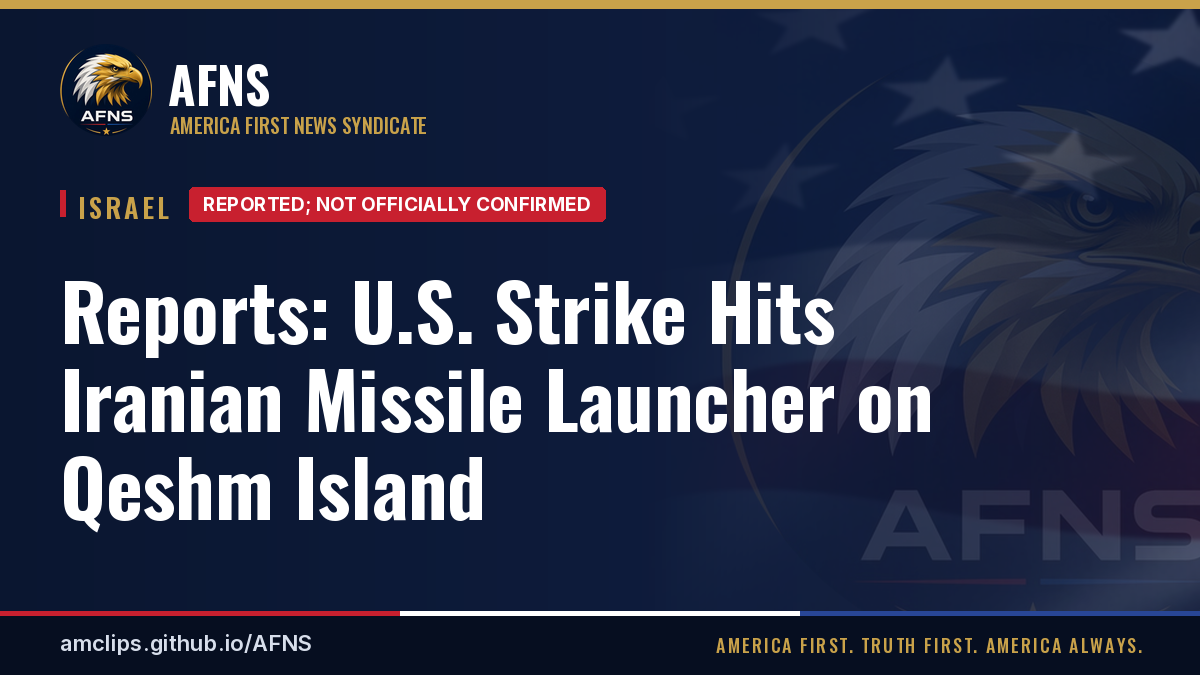
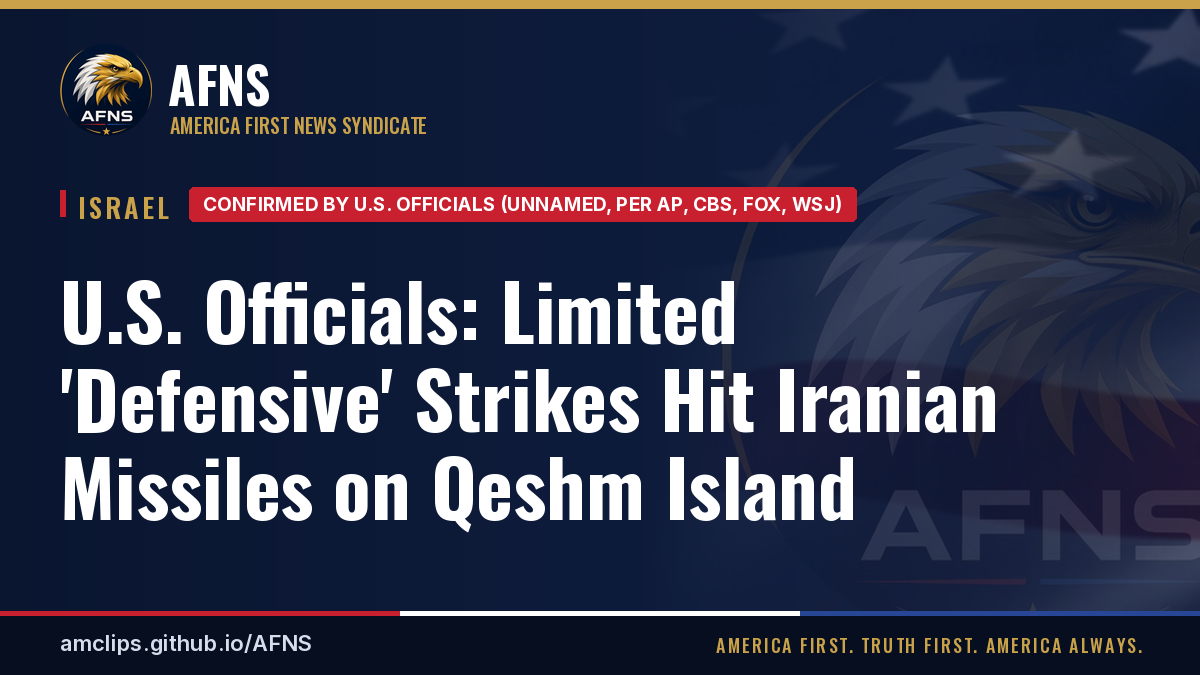
Add Nov 3 morning stories and Qeshm update (#24)

Changed region(s): [[0.0308, 0.4044, 0.8325, 0.7778], [0.1542, 0.28, 0.74, 0.3422]]

diff --git a/content/israel/report-us-strikes-iranian-missile-launcher-qeshm-island.md b/content/israel/report-us-strikes-iranian-missile-launcher-qeshm-island.md
@@ -1,8 +1,8 @@
 ---
-title: "Reports: U.S. Strike Hits Iranian Missile Launcher on Qeshm Island"
+title: "U.S. Officials: Limited 'Defensive' Strikes Hit Iranian Missiles on Qeshm Island"
 desk: israel
 date: 2026-11-02
-summary: "Iran's state news agency IRNA reported five explosions on Qeshm Island in the Strait of Hormuz on Monday afternoon. The Wall Street Journal, citing U.S. officials, says it was one of a series of limited, unannounced U.S. strikes on Iran in recent weeks. Axios, citing a single U.S. official, says a U.S. fighter destroyed an IRGC surface-to-air missile launcher in self-defense after the IRGC fired at a U.S. aircraft. No official CENTCOM or Pentagon statement is cited in the reports."
+summary: "Updated Nov. 3: U.S. officials told AP, CBS, Fox News and the Wall Street Journal that late Monday's strikes were limited and \"defensive,\" hitting Iranian surface-to-air missiles that fired at a U.S. aircraft. Iranian state media reported blasts on Qeshm, Hengam and around Bandar Abbas, and the IRGC claims it downed U.S. drones (UNVERIFIED). It is the first U.S. strike on Qeshm since June. Earlier: IRNA reported five explosions on Qeshm Monday afternoon, and Axios, citing a single U.S. official, said a U.S. fighter destroyed an IRGC missile launcher in self-defense."
 featured: true
 desk_lead: true
 image: "img/stories/report-us-strikes-iranian-missile-launcher-qeshm-island.jpg"
@@ -10,17 +10,26 @@ image_alt: "NASA Landsat 7 satellite view of Qeshm Island in the Strait of Hormu
 image_credit: "NASA Earth Observatory (Landsat 7) / Wikimedia Commons"
 image_source_url: "https://commons.wikimedia.org/wiki/File:QeshmIsland_NASA.jpg"
 image_license: "Public domain"
-status: "Reported; not officially confirmed"
+status: "Confirmed by U.S. officials (unnamed, per AP, CBS, Fox, WSJ)"
 key_points:
+  - UPDATE NOV. 3 - U.S. officials told AP, CBS, Fox News and the WSJ the strikes were limited and "defensive," hitting Iranian surface-to-air missiles that fired at a U.S. aircraft
+  - Iranian state media reported blasts on Qeshm, Hengam and around Bandar Abbas; the IRGC claims it downed two U.S. MQM-170 drones and an MQ-9 (UNVERIFIED)
+  - It is the first U.S. strike on Qeshm since June, and it came hours after Trump said "no" to resuming strikes
+  - Vance said he is optimistic about a deal; Reuters reports Iran's delegation left Doha without a breakthrough (as relayed by the Guardian and Al Jazeera)
   - Iran's state news agency IRNA reported five explosions on Qeshm Island around 2:50 PM CT Monday; residents said they saw aircraft overhead (Iranian state media)
   - The WSJ, citing U.S. officials, says the strike was one of a series of limited, unannounced U.S. strikes on Iran in recent weeks, some described as defensive
   - SINGLE SOURCE - Axios, citing one U.S. official, says a U.S. fighter destroyed an IRGC surface-to-air missile launcher on Qeshm in self-defense after the IRGC fired a missile at a U.S. aircraft over the Strait of Hormuz
   - Brent crude rose about 0.5% in early Asian trading after the reports
   - Trump told Fox News the U.S. "might have to go after" Pickaxe Mountain, a site tied to Iran's nuclear program, and warned fighting could resume without a deal
   - A China-Oman joint statement called for safe passage through the Strait of Hormuz and urged the U.S. and Iran to keep negotiating
-  - No official CENTCOM or Pentagon statement is cited in the reports
+  - Nov. 2 reports cited no official CENTCOM or Pentagon statement; on Nov. 3, unnamed U.S. officials confirmed the strikes to several outlets
   - Israel's official election results go to President Herzog on Nov. 4
 sources:
+  - AP: U.S. strikes Iranian targets in the Strait of Hormuz | https://apnews.com/article/iran-us-strikes-strait-hormuz-183b3d32d9bf5241f744abb917e6713e
+  - BBC: U.S. strikes on Qeshm | https://www.bbc.com/news/articles/cx240mrm3g8vo
+  - Fox News live: U.S. strikes Qeshm Island | https://www.foxnews.com/live-news/iran-war-news-us-strikes-qeshm-island-trump-midterms-11-03-26
+  - The Guardian: U.S. strikes Iran's Qeshm Island | https://www.theguardian.com/world/2026/nov/03/us-strikes-irans-qeshm-island
+  - Al Jazeera: U.S. hits Qeshm Island, Pezeshkian signals more diplomacy | https://www.aljazeera.com/news/2026/11/3/us-hits-qeshm-island-pezeshkian-signals-more-diplomacy-iran-war-latest
   - Faytuks on X: IRNA reports five explosions on Qeshm | https://x.com/Faytuks/status/2117361704271032424
   - Faytuks on X: residents report aircraft over Qeshm | https://x.com/Faytuks/status/2117359309067599961
   - Iran International on X: WSJ on limited, unannounced U.S. strikes | https://x.com/IranIntl_En/status/2117424532718022745
@@ -31,9 +40,23 @@ sources:
   - X trending: China-Oman joint statement on Hormuz | https://x.com/i/trending/2116913936968626268
 ---
 
-**Published Nov. 2, 2026, 11 PM CT.** Covers reports from about 3 PM to 11 PM CT Monday.
+**Published Nov. 2, 2026, 11 PM CT. Updated Nov. 3, 2026, morning CT.** The original report covers about 3 PM to 11 PM CT Monday.
 
-**Status: Reported; not officially confirmed.** The first report of explosions came from Iranian state media. The U.S. account comes from the Wall Street Journal, citing U.S. officials, and from Axios, citing a single U.S. official. No official CENTCOM or Pentagon statement is cited in the reports.
+**Status (updated Nov. 3): Confirmed by U.S. officials.** Unnamed U.S. officials told AP, CBS, Fox News and the Wall Street Journal that the strikes were limited and "defensive." Our sources do not cite an on-the-record CENTCOM or Pentagon statement. The Axios single-source detail below has not been independently confirmed.
+
+**Original status (Nov. 2): Reported; not officially confirmed.** The first report of explosions came from Iranian state media. The U.S. account comes from the Wall Street Journal, citing U.S. officials, and from Axios, citing a single U.S. official. No official CENTCOM or Pentagon statement is cited in the reports.
+
+## Update, Nov. 3 morning
+
+**U.S. officials: limited, "defensive" strikes.** U.S. officials told AP, CBS, Fox News and the Wall Street Journal that late Monday's strikes were limited and "defensive," hitting Iranian surface-to-air missiles that had fired at a U.S. aircraft ([AP](https://apnews.com/article/iran-us-strikes-strait-hormuz-183b3d32d9bf5241f744abb917e6713e), [Fox News](https://www.foxnews.com/live-news/iran-war-news-us-strikes-qeshm-island-trump-midterms-11-03-26)). It is the first U.S. strike on Qeshm since June, and it came hours after President Trump said "no" to resuming strikes ([BBC](https://www.bbc.com/news/articles/cx240mrm3g8vo)).
+
+**Iran's account.** Iranian state media reported blasts on Qeshm, Hengam and around Bandar Abbas. **UNVERIFIED:** the IRGC claims it shot down two U.S. MQM-170 drones and an MQ-9.
+
+**Diplomacy still alive, barely.** Vice President JD Vance said Monday he is optimistic about a deal, and Iranian President Masoud Pezeshkian is signaling more diplomacy ([Al Jazeera](https://www.aljazeera.com/news/2026/11/3/us-hits-qeshm-island-pezeshkian-signals-more-diplomacy-iran-war-latest)). Reuters reports Iran's delegation left Doha on Sunday without a breakthrough, though a draft is still circulating. The BBC says Iran floated reopening the Strait of Hormuz within two days if the U.S. meets seven conditions, including lifting the port blockade and unfreezing assets (both as relayed by [the Guardian](https://www.theguardian.com/world/2026/nov/03/us-strikes-irans-qeshm-island) and Al Jazeera).
+
+**Why it matters for Israel:** a return to full war with Iran would pull Israel straight back in.
+
+**The original Nov. 2 report follows, unchanged.**
 
 ## Explosions reported on Qeshm Island
 
@@ -61,9 +84,10 @@ During the Sultan of Oman's state visit to Beijing, a China-Oman joint statement
 
 ## What's next
 
-- No official CENTCOM or Pentagon statement on the Qeshm strike is cited in the reports.
-- Israel's official election results go to President Isaac Herzog on Nov. 4. There is no new vote count or coalition news.
+- Nov. 2 reports cited no official CENTCOM or Pentagon statement. On Nov. 3, unnamed U.S. officials confirmed the strikes to AP, CBS, Fox News and the WSJ.
+- Israel's official election results go to President Isaac Herzog on Nov. 4. For the latest on coalition talks, see [Anti-Netanyahu Bloc Holds First Joint Meeting](/israel/anti-netanyahu-bloc-first-joint-meeting-herzliya-results-fight/).
 
 ## Related
 
+- [World Briefing, Nov. 3](/geopolitics/world-briefing-2026-11-03/)
 - [Report: U.S. Tells Gulf States to Prepare for Iran Campaign After Midterms as Regional Powers Talk in Tehran](/israel/us-israel-signal-iran-campaign-after-midterms-tehran-talks/)

diff --git a/content/geopolitics/world-briefing-2026-11-03.md b/content/geopolitics/world-briefing-2026-11-03.md
@@ -1,0 +1,69 @@
+---
+title: "World Briefing: Tuesday, Nov. 3, 2026"
+desk: geopolitics
+date: 2026-11-03
+summary: "Qatar mediates between the U.S. and Iran as Axios reports Netanyahu is pressing Trump to resume strikes; the IMO still advises ships to avoid Hormuz; a Russian strike on an aid site in Zaporizhzhia region kills at least 18, with the toll still changing; Ukraine-Russia talks are set for Abu Dhabi Nov. 10-11 as the U.S. approves a Patriot sale; hackers send fake alerts in Ukraine and Russia; sabotage warnings and a political crisis in Europe."
+image: "img/stories/world-briefing-2026-11-03.jpg"
+image_alt: "The Dnipro Hydroelectric Station dam on the Dnieper River in Zaporizhzhia, Ukraine (file image, 2014)"
+image_credit: "Yuriy Kvach / Wikimedia Commons"
+image_source_url: "https://commons.wikimedia.org/wiki/File%3ADniproHES.jpg"
+image_license: "CC BY-SA 4.0"
+status: "Daily briefing"
+key_points:
+  - Iran - Qatari mediators spent more than 12 hours in talks in Tehran and a draft proposal is circulating; Axios reports Netanyahu wants strikes to resume right after the midterms (as relayed)
+  - Hormuz - the head of the IMO won't confirm mines have been cleared and still advises ships not to pass through (Xinhua)
+  - Ukraine - a Russian strike on an aid distribution site in Zaporizhzhia region killed at least 18; Ukraine reports 18 dead and 27 missing, some outlets cite 26 dead, and the toll is still changing
+  - Talks - U.S. envoy Steve Witkoff announced Ukraine-Russia working-level talks in Abu Dhabi on Nov. 10-11; the U.S. approved a $2.1 billion sale of 500 Patriot PAC-3 missiles to Ukraine
+  - Cyber - UNCONFIRMED ATTRIBUTION - hackers sent fake nuclear and air-raid alerts through emergency apps in both Ukraine and Russia
+  - Europe - suspected cyberattacks on supermarket fridges in seven countries; Poland sends counterterrorism police to the Kaliningrad border; Belgian PM Bart De Wever offers to resign
+sources:
+  - AP: Mideast latest, Nov. 2 | https://apnews.com/article/mideast-news-november-2-2026-8722c8b5a9deb228e7a188d4760ea8ed
+  - Nhan Dan: World news in brief, Nov. 3 | https://en.nhandan.vn/world-news-in-brief-november-3-post168623.html
+  - Just Security: Early Edition, Nov. 2 | https://www.justsecurity.org/162991/early-edition-november-2-2026/
+  - Anadolu: Morning briefing, Nov. 2 | https://www.aa.com.tr/en/world/morning-briefing-nov-2-2026/4108322
+  - Anadolu: Morning briefing, Nov. 3 | https://www.aa.com.tr/en/world/morning-briefing-nov-3-2026/4109288
+  - Xinhua: World news, Nov. 3 | https://english.news.cn/20261103/9e33353149e54a98ad0f3f5f26782736/c.html
+  - ISW: Russian offensive campaign assessment, Nov. 2 | https://understandingwar.org/research/russia-ukraine/russian-offensive-campaign-assessment-november-2-2026/
+  - 10 Things: Global news, Nov. 3 | https://www.10things.news/p/10-things-global-news-3rd-november-4b6
+---
+
+**Status: Daily briefing.** Each item names its source. Items marked UNCONFIRMED have not been independently confirmed. For the U.S. strikes on Qeshm Island, see our full story: [U.S. Officials: Limited 'Defensive' Strikes Hit Iranian Missiles on Qeshm Island](/israel/report-us-strikes-iranian-missile-launcher-qeshm-island/).
+
+## Iran: strikes and talks at the same time
+
+U.S. officials describe limited "defensive" strikes on Iranian targets around Hormuz, including on Qeshm Island, and the WSJ reports they are part of a series of quiet strikes in recent weeks. Iran's foreign minister calls the indirect talks "very intensive," and Vice President JD Vance says there has been "progress" ([AP](https://apnews.com/article/mideast-news-november-2-2026-8722c8b5a9deb228e7a188d4760ea8ed), [Nhan Dan](https://en.nhandan.vn/world-news-in-brief-november-3-post168623.html)).
+
+## Qatar mediates; Netanyahu presses Trump
+
+Qatari mediators spent more than 12 hours in talks in Tehran, a draft proposal is circulating, and another Qatari delegation is expected. Axios reports that Netanyahu wants military action to resume right after the U.S. midterms, but that Trump is favoring diplomacy for now (as relayed by [Just Security](https://www.justsecurity.org/162991/early-edition-november-2-2026/) and [Anadolu](https://www.aa.com.tr/en/world/morning-briefing-nov-2-2026/4108322)). Supreme Leader Mojtaba Khamenei has ordered an "immediate" response to any new attack.
+
+## Hormuz still isn't safe for shipping
+
+The head of the International Maritime Organization wouldn't confirm that mines have been cleared and is still advising ships not to pass through the Strait of Hormuz ([Xinhua](https://english.news.cn/20261103/9e33353149e54a98ad0f3f5f26782736/c.html)).
+
+## Ukraine: strike on an aid site in Zaporizhzhia region
+
+A Russian strike on an aid distribution site in Zaporizhzhia region killed at least 18 people. Aerial bombs hit a school in Komyshuvakha where people were collecting aid. Ukraine reports 18 dead and 27 missing, while some outlets cite 26 dead. **The toll is still changing.** The strike came right after the six-day Oleshky truce ended, and Kyiv says Russia used the pause to reinforce ([ISW](https://understandingwar.org/research/russia-ukraine/russian-offensive-campaign-assessment-november-2-2026/), [Xinhua](https://english.news.cn/20261103/9e33353149e54a98ad0f3f5f26782736/c.html)).
+
+## Abu Dhabi talks and a Patriot sale
+
+U.S. envoy Steve Witkoff announced working-level Ukraine-Russia talks in Abu Dhabi on Nov. 10-11. The WSJ reports the U.S. wants Russian gas to flow to Europe through Ukraine again as part of an energy ceasefire, which European leaders oppose. The U.S. also approved a $2.1 billion sale of 500 Patriot PAC-3 missiles to Ukraine, paid for by Canada, Germany and Norway ([Anadolu](https://www.aa.com.tr/en/world/morning-briefing-nov-3-2026/4109288), [Just Security](https://www.justsecurity.org/162991/early-edition-november-2-2026/)).
+
+## Fake alerts in Ukraine and Russia
+
+Hackers sent fake nuclear and air-raid alerts through the emergency alert apps in both Ukraine and Russia. Kyiv blames Moscow, and ISW assesses that Ukrainian hackers likely hit Russia's app in return. **UNCONFIRMED ATTRIBUTION:** neither claim has been independently confirmed. Separately, the U.S. warned Russia about a credible terror threat in Moscow ([Anadolu](https://www.aa.com.tr/en/world/morning-briefing-nov-2-2026/4108322), [ISW](https://understandingwar.org/research/russia-ukraine/russian-offensive-campaign-assessment-november-2-2026/)).
+
+## Europe: sabotage warnings and a Belgian crisis
+
+Suspected cyberattacks changed fridge and freezer temperatures in supermarkets in seven countries. Poland sent counterterrorism police to the Kaliningrad border after sabotage warnings. Belgian Prime Minister Bart De Wever offered to resign after budget talks collapsed, and the king hasn't decided whether to accept ([10 Things](https://www.10things.news/p/10-things-global-news-3rd-november-4b6), [Xinhua](https://english.news.cn/20261103/9e33353149e54a98ad0f3f5f26782736/c.html)).
+
+## What to watch
+
+- Today's U.S. midterms, and whether a U.S. or Israeli strike on Iran follows
+- The next Qatari round in Tehran
+- Any winter energy truce before the Abu Dhabi talks
+
+## Related
+
+- [U.S. Officials: Limited 'Defensive' Strikes Hit Iranian Missiles on Qeshm Island](/israel/report-us-strikes-iranian-missile-launcher-qeshm-island/)
+- [Anti-Netanyahu Bloc Holds First Joint Meeting as Fight Over Election Results Continues](/israel/anti-netanyahu-bloc-first-joint-meeting-herzliya-results-fight/)

diff --git a/content/israel/anti-netanyahu-bloc-first-joint-meeting-herzliya-results-fight.md b/content/israel/anti-netanyahu-bloc-first-joint-meeting-herzliya-results-fight.md
@@ -1,0 +1,53 @@
+---
+title: "Anti-Netanyahu Bloc Holds First Joint Meeting as Fight Over Election Results Continues"
+desk: israel
+date: 2026-11-03
+summary: "Eisenkot, Bennett, Lapid, Liberman and Golan met in Herzliya ahead of President Herzog's consultations. They are united on replacing Netanyahu but split over the Arab parties. The election committee chief rejected Likud's demand for a briefing on suspected interference. The final count stands at Netanyahu bloc 53, Eisenkot bloc 48, Arab parties 19."
+image: "img/stories/anti-netanyahu-bloc-first-joint-meeting-herzliya-results-fight.jpg"
+image_alt: "Aerial view of the Knesset building in Jerusalem (file image, 1995)"
+image_credit: "Tsvika Israeli, Government Press Office / Wikimedia Commons"
+image_source_url: "https://commons.wikimedia.org/wiki/File%3AFlickr_-_Government_Press_Office_%28GPO%29_-_The_Knesset_Building_in_Jerusalem.jpg"
+image_license: "CC BY-SA 3.0"
+status: "Coalition talks; official results due Nov. 4"
+key_points:
+  - Final count reconfirmed - Netanyahu bloc 53, Eisenkot bloc 48, Arab parties 19 (Likud 27, Yashar 21, B'Yachad 12)
+  - Eisenkot, Bennett, Lapid, Liberman and Golan held their first joint meeting, in Herzliya, ahead of Herzog's consultations (Ynet, Jerusalem Post)
+  - They are united on replacing Netanyahu and want to oust Knesset Speaker Ohana, but split over the Arab parties; Liberman is pushing for a coalition without them
+  - The election committee chief rejected Likud's demand for a briefing on suspected interference; police sources found no evidence of widespread fraud (Jerusalem Post)
+  - Israel asked Beirut via mediators to deploy troops so Hezbollah stays out if war with Iran resumes (Kan, citing a security source, via Times of Israel)
+sources:
+  - Ynet: Anti-Netanyahu bloc meets in Herzliya | https://www.ynetnews.com/article/h1n0nndtme
+  - Jerusalem Post live updates, Nov. 3 | https://www.jpost.com/israel-news/2026-11-03/live-updates-913649
+  - Jerusalem Post: Israel election 2026 | https://www.jpost.com/israel-election-2026/article-913688
+  - Times of Israel live blog, Nov. 3 | https://www.timesofisrael.com/liveblog-november-03-2026/
+  - Al Jazeera: Palestine weekly, West Bank sieges and Gaza | https://www.aljazeera.com/news/2026/11/3/palestine-weekly-election-deadlock-meets-west-bank-sieges-gaza-killings
+---
+
+**Final count (reconfirmed):** Netanyahu bloc 53, Eisenkot bloc 48, Arab parties 19. Likud has 27 seats, Yashar 21 and B'Yachad 12. Official results go to President Isaac Herzog on Wednesday, Nov. 4.
+
+## Opposition leaders meet
+
+Gadi Eisenkot, Naftali Bennett, Yair Lapid, Avigdor Liberman and Yair Golan held their first joint meeting, in Herzliya, ahead of Herzog's consultations on who gets the first chance to form a government ([Ynet](https://www.ynetnews.com/article/h1n0nndtme), [Jerusalem Post](https://www.jpost.com/israel-news/2026-11-03/live-updates-913649)).
+
+The five are united on replacing Prime Minister Benjamin Netanyahu and want to oust Knesset Speaker Amir Ohana, but they are split over the Arab parties. Liberman is pushing for a coalition without them. Without the Arab parties, the realistic options are a unity government, a minority government or another election.
+
+## The fight over the results
+
+The head of the Central Elections Committee rejected Likud's demand for a briefing on suspected interference and said he cannot block publication of the results. Committee chair Noam Sohlberg called the vote "conducted properly," and police sources found no evidence of widespread fraud ([Jerusalem Post](https://www.jpost.com/israel-news/2026-11-03/live-updates-913649), [Jerusalem Post](https://www.jpost.com/israel-election-2026/article-913688)).
+
+Netanyahu says the public doesn't want a government that depends on Ra'am and the Joint List. Golan met Joint List leaders Jabareen and Tibi to coordinate.
+
+## Lebanon
+
+Israel asked Beirut, through mediators, to deploy Lebanese troops so Hezbollah stays out if war with Iran resumes, and warned that fighting will flare if Hezbollah attacks. That is Kan's report, citing a security source ([Times of Israel](https://www.timesofisrael.com/liveblog-november-03-2026/)).
+
+## Also today
+
+- **West Bank:** the army pulled out of Hebron on Nov. 2 after a roughly 10-day siege, and displaced families are returning. OCHA logged a record 397 settler attacks in the first 26 days of October ([Al Jazeera](https://www.aljazeera.com/news/2026/11/3/palestine-weekly-election-deadlock-meets-west-bank-sieges-gaza-killings)).
+- **Gaza:** the Gaza Health Ministry says 1,593 people have been killed since last year's ceasefire, including at least 8 on Sunday (as reported by [Al Jazeera](https://www.aljazeera.com/news/2026/11/3/palestine-weekly-election-deadlock-meets-west-bank-sieges-gaza-killings)).
+- **Zehut:** party leader Moshe Feiglin calls the new Knesset "illegitimate" and wants new elections ([Jerusalem Post](https://www.jpost.com/israel-news/2026-11-03/live-updates-913649)).
+
+## Related
+
+- [Israel Election: Count Complete With Deadlock Unchanged; Official Results Due Wednesday](/israel/israel-election-no-clear-winner-netanyahu-eisenkot-claim-victory/)
+- [U.S. Officials: Limited 'Defensive' Strikes Hit Iranian Missiles on Qeshm Island](/israel/report-us-strikes-iranian-missile-launcher-qeshm-island/)

diff --git a/content/courts/boasberg-bars-doj-dhs-california-ballot-demands.md b/content/courts/boasberg-bars-doj-dhs-california-ballot-demands.md
@@ -1,0 +1,46 @@
+---
+title: "Judge Boasberg Bars DOJ and DHS From Demanding California Set Aside Ballots"
+desk: courts
+date: 2026-11-02
+summary: "Chief U.S. District Judge James Boasberg ruled that the Trump administration likely violated the Constitution by pressing California officials to set aside ballots based on federal lists of suspected noncitizens, and barred DOJ and DHS from making further demands like that. The Supreme Court and the 9th Circuit had only refused to order California to comply. This ruling goes further and directly limits what federal officials can demand."
+image: "img/stories/boasberg-bars-doj-dhs-california-ballot-demands.jpg"
+image_alt: "The E. Barrett Prettyman U.S. Courthouse in Washington, D.C. (file image, 2026)"
+image_credit: "ajay_suresh / Wikimedia Commons"
+image_source_url: "https://commons.wikimedia.org/wiki/File%3AE._Barrett_Prettyman_United_States_Courthouse_-_2026_%2855266857098%29.jpg"
+image_license: "CC BY 4.0"
+status: "Injunction granted in California case; TRO denied in separate case"
+key_points:
+  - In a case brought by California plaintiffs whose members include people on DOJ's list, DOJ and DHS can't demand that California officials set aside ballots or depart from state election procedures based on the federal lists (Axios, Bloomberg Law)
+  - Boasberg found the demands likely violate the Constitution, which gives election rules to the states and Congress, not the executive branch (Axios)
+  - According to Axios, an expert the judge found credible identified at least 22 known U.S. citizens on DOJ's list, and 66 more who are almost certainly citizens
+  - Federal investigations and prosecutions of illegal voting can continue (Axios)
+  - In a separate case brought by Democratic Party committees, Boasberg denied a temporary restraining order because the groups lacked standing (Democracy Docket)
+sources:
+  - Axios: Judge blocks Trump DOJ's California ballot demands | https://www.axios.com/2026/11/02/judge-blocks-trump-doj-california-ballot-demands
+  - Bloomberg Law: Judge in D.C. bars Trump administration demands on California ballots | https://news.bloomberglaw.com/us-law-week/judge-in-dc-bars-trump-administration-demands-on-calif-ballots
+  - Democracy Docket: Federal judge won't bar Trump admin from threatening election officials | https://www.democracydocket.com/news-alerts/federal-judge-wont-bar-trump-admin-from-threatening-election-officials-in-effort-to-purge-voters/
+---
+
+**Ruled Nov. 2, 2026. Published Nov. 3.**
+
+## Two cases, two outcomes
+
+Boasberg ruled Monday in two separate cases. In one, brought by California plaintiffs whose members include people on DOJ's list, he barred DOJ and DHS from demanding that California set ballots aside ([Axios](https://www.axios.com/2026/11/02/judge-blocks-trump-doj-california-ballot-demands), [Bloomberg Law](https://news.bloomberglaw.com/us-law-week/judge-in-dc-bars-trump-administration-demands-on-calif-ballots)). In the other, brought by the DSCC, DCCC, Democratic Governors Association and Nevada State Democratic Party, he denied a temporary restraining order because the groups lacked standing ([Democracy Docket](https://www.democracydocket.com/news-alerts/federal-judge-wont-bar-trump-admin-from-threatening-election-officials-in-effort-to-purge-voters/)).
+
+## The California ruling
+
+Ruling on Monday, the day before the midterms, Boasberg concluded that the executive branch likely has no constitutional power to dictate how states handle ballots, because the Constitution assigns election rules to the states and Congress. His order bars DOJ and DHS from demanding that California set ballots aside or change its procedures based on the federal lists (Axios).
+
+Axios reported that an expert the judge credited found at least 22 known U.S. citizens on DOJ's list, and 66 more who are almost certainly citizens. The ruling leaves DOJ free to investigate and prosecute illegal voting through normal channels (Axios).
+
+The Supreme Court and the 9th Circuit had only refused to order California to comply. This ruling goes further and directly limits what federal officials can demand.
+
+## The Democratic committees' case
+
+In the separate case, Democracy Docket reports that Boasberg said the letters "may indeed be unlawful," but denied the restraining order because the party committees lacked standing ([Democracy Docket](https://www.democracydocket.com/news-alerts/federal-judge-wont-bar-trump-admin-from-threatening-election-officials-in-effort-to-purge-voters/)).
+
+## Related
+
+- [Supreme Court Declines to Sideline 20,000 California Ballots on Eve of Midterms](/trump-administration/supreme-court-declines-sideline-20000-california-ballots/)
+- [Appeals Court Refuses DOJ Bid to Freeze 20,000 California Mail Ballots a Week Before Midterms](/courts/ninth-circuit-denies-doj-bid-freeze-california-mail-ballots/)
+- [Democrats Ask a Federal Judge to Block DOJ and DHS Election Moves as Early Voting Tops 35 Million](/dsa-democrat-watch/democrats-ask-boasberg-block-doj-dhs-election-moves/)

diff --git a/content/trump-administration/us-drops-south-africa-rwanda-agoa-robotics-section-232.md b/content/trump-administration/us-drops-south-africa-rwanda-agoa-robotics-section-232.md
@@ -1,0 +1,29 @@
+---
+title: "Trump Administration to Drop South Africa and Rwanda From AGOA, Orders Talks on Robotics Imports"
+desk: trump-administration
+date: 2026-11-03
+summary: "The Office of the U.S. Trade Representative says South Africa and Rwanda will be removed from the African Growth and Opportunity Act trade program at the end of the year. Separately, a proclamation published Nov. 2 calls imports of robotics and industrial machinery a national-security threat and opens negotiations with trading partners."
+image: "img/stories/us-drops-south-africa-rwanda-agoa-robotics-section-232.jpg"
+image_alt: "Stacked shipping containers and gantry cranes at the container terminal in the Port of Durban, South Africa (file image)"
+image_credit: "Christophe Badoux / Wikimedia Commons"
+image_source_url: "https://commons.wikimedia.org/wiki/File%3APort_of_Durban_containers.jpg"
+image_license: "CC BY-SA 3.0"
+status: "Announced; removals take effect at year's end"
+key_points:
+  - USTR says South Africa and Rwanda will be removed from AGOA at the end of the year, citing trade barriers and alignment with U.S. foreign policy (AP)
+  - A Section 232 proclamation published Nov. 2 calls imports of robotics, industrial machinery and their parts a national-security threat (Federal Register)
+  - It directs Commerce and USTR to report on negotiations with trading partners within 180 days (Federal Register)
+  - Tariffs, quotas, fees or a program to encourage U.S. production could follow, depending on how talks go (Federal Register)
+sources:
+  - AP: U.S. to drop South Africa and Rwanda from AGOA | https://apnews.com/article/trump-us-south-africa-rwanda-trade-agoa-5b18b1db8995fec67b28b9680d9d8424
+  - Federal Register: Adjusting Imports of Robotics, Industrial Machinery, and Their Parts | https://www.federalregister.gov/documents/2026/11/02/2026-22385/adjusting-imports-of-robotics-industrial-machinery-and-their-parts-and-components-into-the-united
+---
+
+## South Africa and Rwanda out of AGOA
+
+President Trump will cut South Africa and Rwanda from the quarter-century-old African Growth and Opportunity Act (AGOA) trade program at the end of the year. The Office of the U.S. Trade Representative said the two countries didn't meet certain eligibility criteria, including policies on trade barriers and alignment with U.S. foreign policy ([AP](https://apnews.com/article/trump-us-south-africa-rwanda-trade-agoa-5b18b1db8995fec67b28b9680d9d8424)).
+
+## Robotics and industrial machinery
+
+In a proclamation published Nov. 2, Trump agreed with the Commerce Secretary's finding under Section 232 that imports of robotics, industrial machinery and their parts and components threaten national security. He ordered negotiations with trading partners and an update from Commerce and USTR within 180 days. The proclamation says he may later consider tariffs, quotas, fees or a program to encourage U.S. production, depending on how the talks go ([Federal Register](https://www.federalregister.gov/documents/2026/11/02/2026-22385/adjusting-imports-of-robotics-industrial-machinery-and-their-parts-and-components-into-the-united)).
+

diff --git a/content/trump-administration/supreme-court-declines-sideline-20000-california-ballots.md b/content/trump-administration/supreme-court-declines-sideline-20000-california-ballots.md
@@ -1,0 +1,40 @@
+---
+title: "Supreme Court Declines to Sideline 20,000 California Ballots on Eve of Midterms"
+desk: trump-administration
+date: 2026-11-03
+summary: "On Monday the Supreme Court rejected the Trump administration's request to have California set aside mail ballots from more than 20,000 people the Justice Department says may be noncitizens. The ruling came one day before midterm elections that decide control of the House and Senate."
+featured: true
+desk_lead: true
+image: "img/stories/supreme-court-declines-sideline-20000-california-ballots.jpg"
+image_alt: "The west facade of the U.S. Supreme Court Building in Washington, D.C., at dusk (file image)"
+image_credit: "Joe Ravi / Wikimedia Commons"
+image_source_url: "https://commons.wikimedia.org/wiki/File%3APanorama_of_United_States_Supreme_Court_Building_at_Dusk.jpg"
+image_license: "CC BY-SA 3.0"
+status: "Request denied"
+key_points:
+  - DOJ asked the Supreme Court to immediately order California to set aside mail ballots from more than 20,000 people it says may be noncitizens (Washington Post)
+  - The Court refused to intervene (AP)
+  - The ruling came one day before the Nov. 3 midterms, which decide control of the House and Senate (AP)
+  - AP called it one of a flurry of election lawsuits filed right before Election Day
+sources:
+  - AP live updates, Nov. 2 | https://apnews.com/live/midterm-elections-trump-house-senate-news-updates-11-2-2026
+  - Washington Post: Trump administration asks Supreme Court to set aside 20,000 California ballots | https://www.washingtonpost.com/politics/2026/11/02/trump-administration-asks-supreme-court-set-aside-20000-california-ballots-now/
+---
+
+## DOJ's request
+
+The Justice Department went to the Supreme Court on Monday asking it to order California to immediately set aside mail ballots from more than 20,000 people it says may be noncitizens who voted illegally ([Washington Post](https://www.washingtonpost.com/politics/2026/11/02/trump-administration-asks-supreme-court-set-aside-20000-california-ballots-now/)). That is the department's allegation, not a court finding.
+
+## The Court says no
+
+The Court declined to step in on the eve of the midterms, which decide control of the House and Senate ([AP](https://apnews.com/live/midterm-elections-trump-house-senate-news-updates-11-2-2026)). AP called it the latest in a flurry of election lawsuits filed the day before voting.
+
+The same day, Chief U.S. District Judge James Boasberg separately [barred DOJ and DHS from making such demands on California](/courts/boasberg-bars-doj-dhs-california-ballot-demands/) in a case brought by California plaintiffs.
+
+## Earlier coverage
+
+Lower courts had already turned DOJ down on these ballots. See our Oct. 26 story on the [9th Circuit's 2-1 denial](/courts/ninth-circuit-denies-doj-bid-freeze-california-mail-ballots/) and our Oct. 28 story on [Judge Carter's ruling](/trump-administration/courts-push-back-refugee-rule-california-ballots/).
+
+## Related
+
+- [Judge Boasberg Bars DOJ and DHS From Demanding California Set Aside Ballots](/courts/boasberg-bars-doj-dhs-california-ballot-demands/)

diff --git a/content/dsa-democrat-watch/dsa-tracks-200-campaigns-election-day.md b/content/dsa-democrat-watch/dsa-tracks-200-campaigns-election-day.md
@@ -1,0 +1,32 @@
+---
+title: "DSA Tracks More Than 200 Campaigns on Election Day"
+desk: dsa-democrat-watch
+date: 2026-11-03
+summary: "Democratic Left, the magazine of the Democratic Socialists of America, has started an election-night live blog covering more than 200 DSA campaigns on Tuesday's ballot. It describes the midterms as the cap on a historic cycle for socialist candidates. That framing is DSA's own."
+image: "img/stories/dsa-tracks-200-campaigns-election-day.jpg"
+image_alt: "A 'Vote Here' sign with an American flag outside a polling place in Woodbury, Minnesota (file image, 2020)"
+image_credit: "Tony Webster / Wikimedia Commons"
+image_source_url: "https://commons.wikimedia.org/wiki/File%3AVote_Here_-_Election_Polling_Place_%2850565230221%29.jpg"
+image_license: "CC BY 2.0"
+status: "Election Day; results pending"
+key_points:
+  - DSA says more than 200 of its campaigns are on ballots on Nov. 3 (Democratic Left, DSA's own outlet)
+  - One example is Austin DSA's push to elect Misael Ramos to city council; a runoff, if needed, would be on Dec. 12
+  - DSA released its list of key races to watch on election night on Oct. 28 (Democratic Left)
+  - Democratic Left is DSA's own publication, so its description of a "historic cycle" is the organization's framing
+sources:
+  - Democratic Left (DSA): Live blog, midterms cap a historic cycle for socialists | https://democraticleft.dsausa.org/2026/11/02/live-blog-midterms-cap-a-historic-cycle-for-socialists/
+  - Democratic Left (DSA): DSA races to watch on election night | https://democraticleft.dsausa.org/2026/10/28/dsa-races-to-watch-on-election-night/
+---
+
+**Note on sourcing:** Democratic Left is the magazine of the Democratic Socialists of America. The campaign count and the description of the cycle below come from DSA's own outlet, and its framing is DSA's.
+
+## The live blog
+
+DSA's outlet, Democratic Left, will post results through election night for the organization's slate of more than 200 campaigns, which it says range from congressional races to city councils. It describes the midterms as the cap on a historic cycle for socialist candidates ([Democratic Left](https://democraticleft.dsausa.org/2026/11/02/live-blog-midterms-cap-a-historic-cycle-for-socialists/)).
+
+One example is Austin DSA's campaign to elect Misael Ramos to the Austin City Council. If no one wins outright, the race goes to a runoff on Dec. 12. The blog builds on the races-to-watch list DSA published Oct. 28 ([Democratic Left](https://democraticleft.dsausa.org/2026/10/28/dsa-races-to-watch-on-election-night/)).
+
+## Earlier coverage
+
+On Oct. 27 we reported [Ballotpedia's count of 131 DSA-backed candidates](/dsa-democrat-watch/dsa-backs-131-candidates-raman-endorsement-fight/) on the Nov. 3 ballot, plus positions on 33 ballot measures. DSA's "more than 200 campaigns" is the organization's own count, and the two figures may not measure the same thing.
